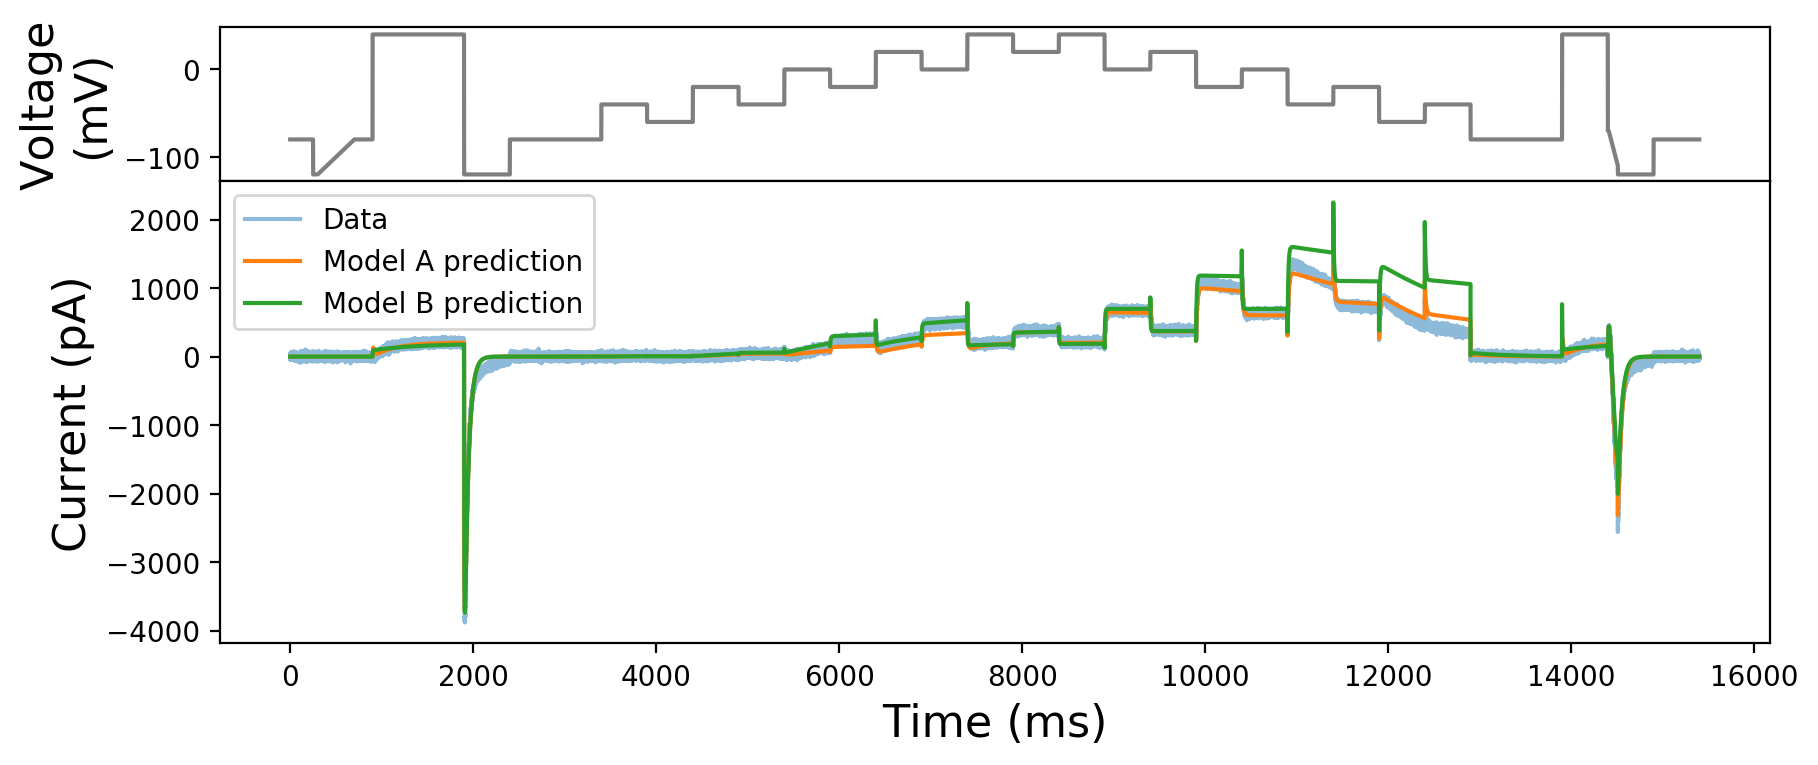
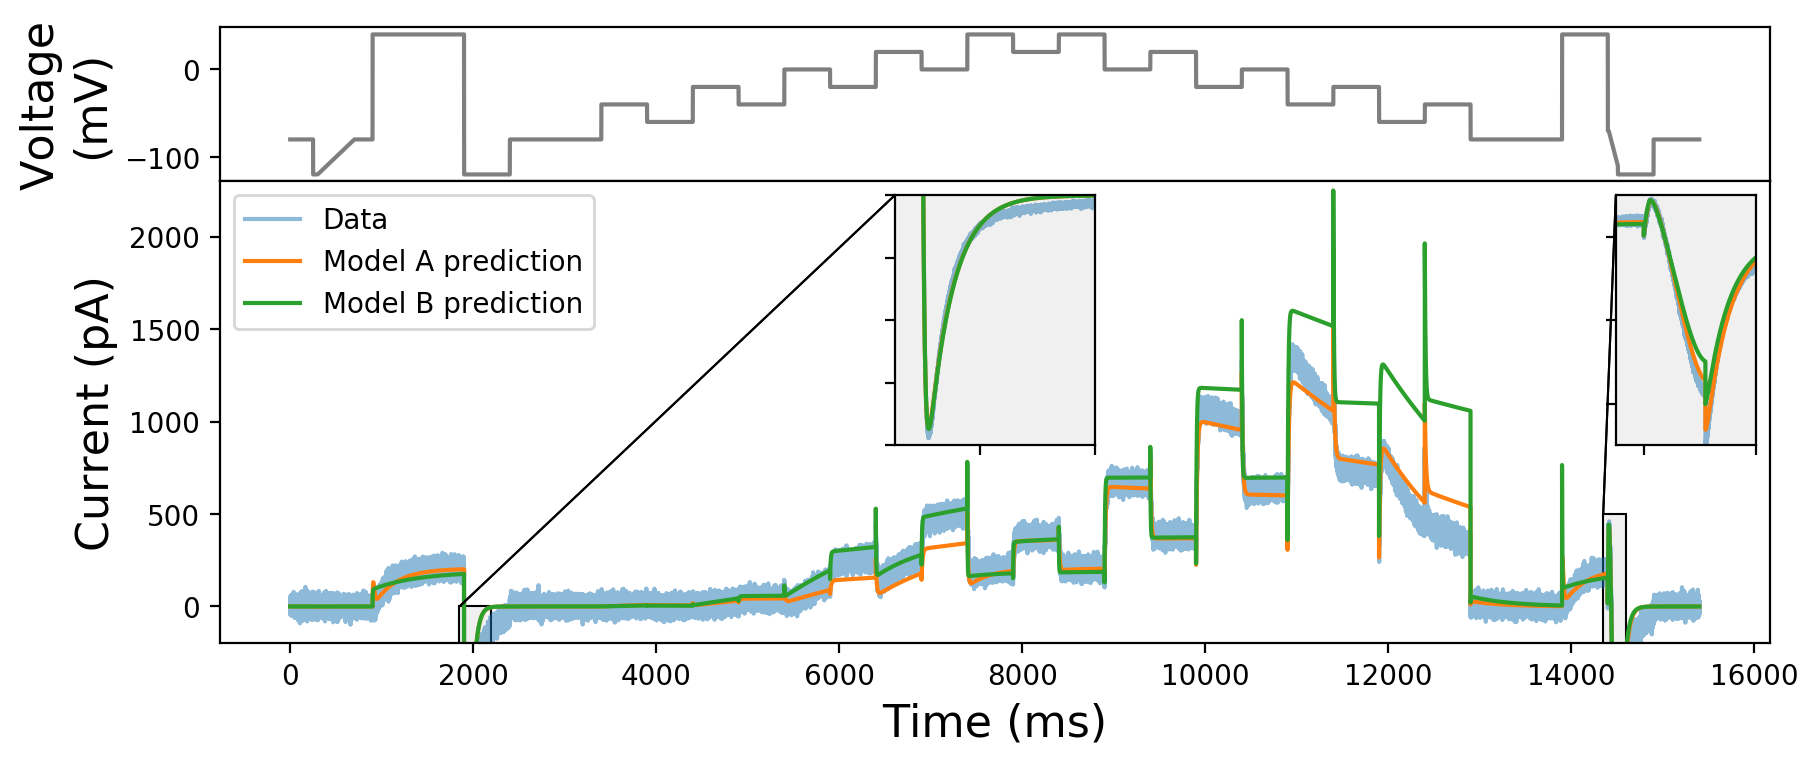
Add zooms

diff --git a/ion-channel-models/compare.py b/ion-channel-models/compare.py
@@ -109,6 +109,30 @@ for i, p in zip(fix_idx, predictions_a):
     axes[1].plot(times, p, label='Model A' + is_predict)
 for i, p in zip(fix_idx, predictions_b):
     axes[1].plot(times, p, label='Model B' + is_predict)
+
+# Zooms
+from mpl_toolkits.axes_grid1.inset_locator import inset_axes, mark_inset
+sys.path.append('./protocol-time-series')
+zoom = importlib.import_module(which_predict + '_to_zoom')
+axes[1].set_ylim(zoom.set_ylim)
+for i_zoom, (w, h, loc) in enumerate(zoom.inset_setup):
+    axins = inset_axes(axes[1], width=w, height=h, loc=loc,
+            axes_kwargs={"facecolor" : "#f0f0f0"})
+    axins.plot(times, data, alpha=0.5)
+    for i, p in zip(fix_idx, predictions_a):
+        axins.plot(times, p)
+    for i, p in zip(fix_idx, predictions_b):
+        axins.plot(times, p)
+    axins.set_xlim(zoom.set_xlim_ins[i_zoom])
+    axins.set_ylim(zoom.set_ylim_ins[i_zoom])
+    #axins.yaxis.get_major_locator().set_params(nbins=3)
+    #axins.xaxis.get_major_locator().set_params(nbins=3)
+    axins.set_xticklabels([])
+    axins.set_yticklabels([])
+    pp, p1, p2 = mark_inset(axes[1], axins, loc1=zoom.mark_setup[i_zoom][0],
+            loc2=zoom.mark_setup[i_zoom][1], fc="none", lw=0.75, ec='k')
+    pp.set_fill(True); pp.set_facecolor("#f0f0f0")
+
 axes[1].legend()
 axes[1].set_ylabel('Current (pA)', fontsize=16)
 axes[1].set_xlabel('Time (ms)', fontsize=16)

diff --git a/ion-channel-models/protocol-time-series/staircase_to_zoom.py b/ion-channel-models/protocol-time-series/staircase_to_zoom.py
@@ -1,0 +1,8 @@
+# Protocol plotting zoom-ins set up
+
+set_ylim = [-200, 2300]
+set_xlim_ins = [[1850, 2200], [14350, 14600]]
+set_ylim_ins = [[-4000, 0], [-2500, 500]]
+inset_setup = [(1, 1.25, 'upper center'), (0.7, 1.25, 'upper right')]
+mark_setup = [(2, 2), (2, 2)]
+

diff --git a/ion-channel-models/protocol-time-series/ap_to_zoom.py b/ion-channel-models/protocol-time-series/ap_to_zoom.py
@@ -1,0 +1,8 @@
+# Protocol plotting zoom-ins set up
+
+set_ylim = [-200, 4200]
+set_xlim_ins = [[4350, 4450], [7300, 7550]]
+set_ylim_ins = [[-100, 4800], [-2450, 200]]
+inset_setup = [(1, 1.25, 'upper left'), (1, 1.25, 'lower right')]
+mark_setup = [(3, 3), (2, 2)]
+

diff --git a/ion-channel-models/protocol-time-series/sinewave_to_zoom.py b/ion-channel-models/protocol-time-series/sinewave_to_zoom.py
@@ -1,0 +1,8 @@
+# Protocol plotting zoom-ins set up
+
+set_ylim = [-1250, 800]
+set_xlim_ins = [[2050, 2200]]
+set_ylim_ins = [[-4000, -1000]]
+inset_setup = [(1, 1.25, 'lower left')]
+mark_setup = [(1, 1)]
+
